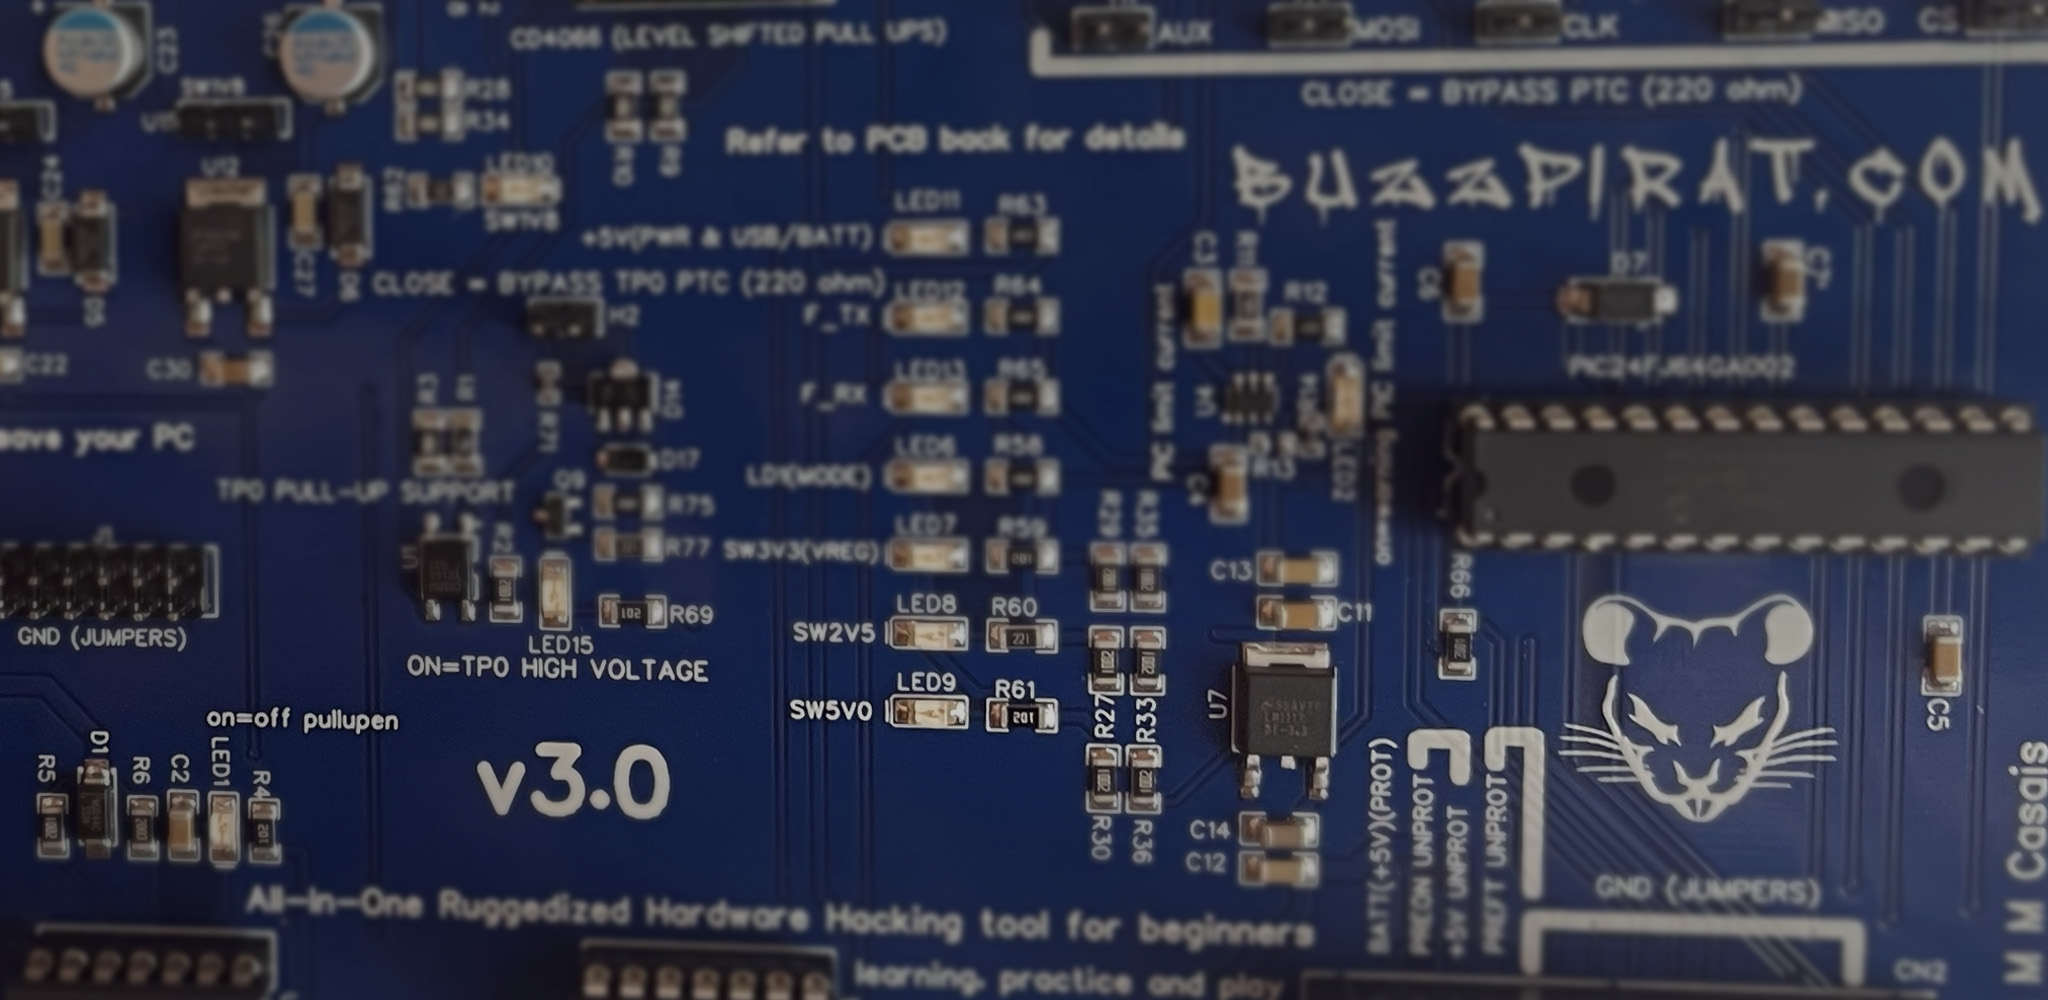
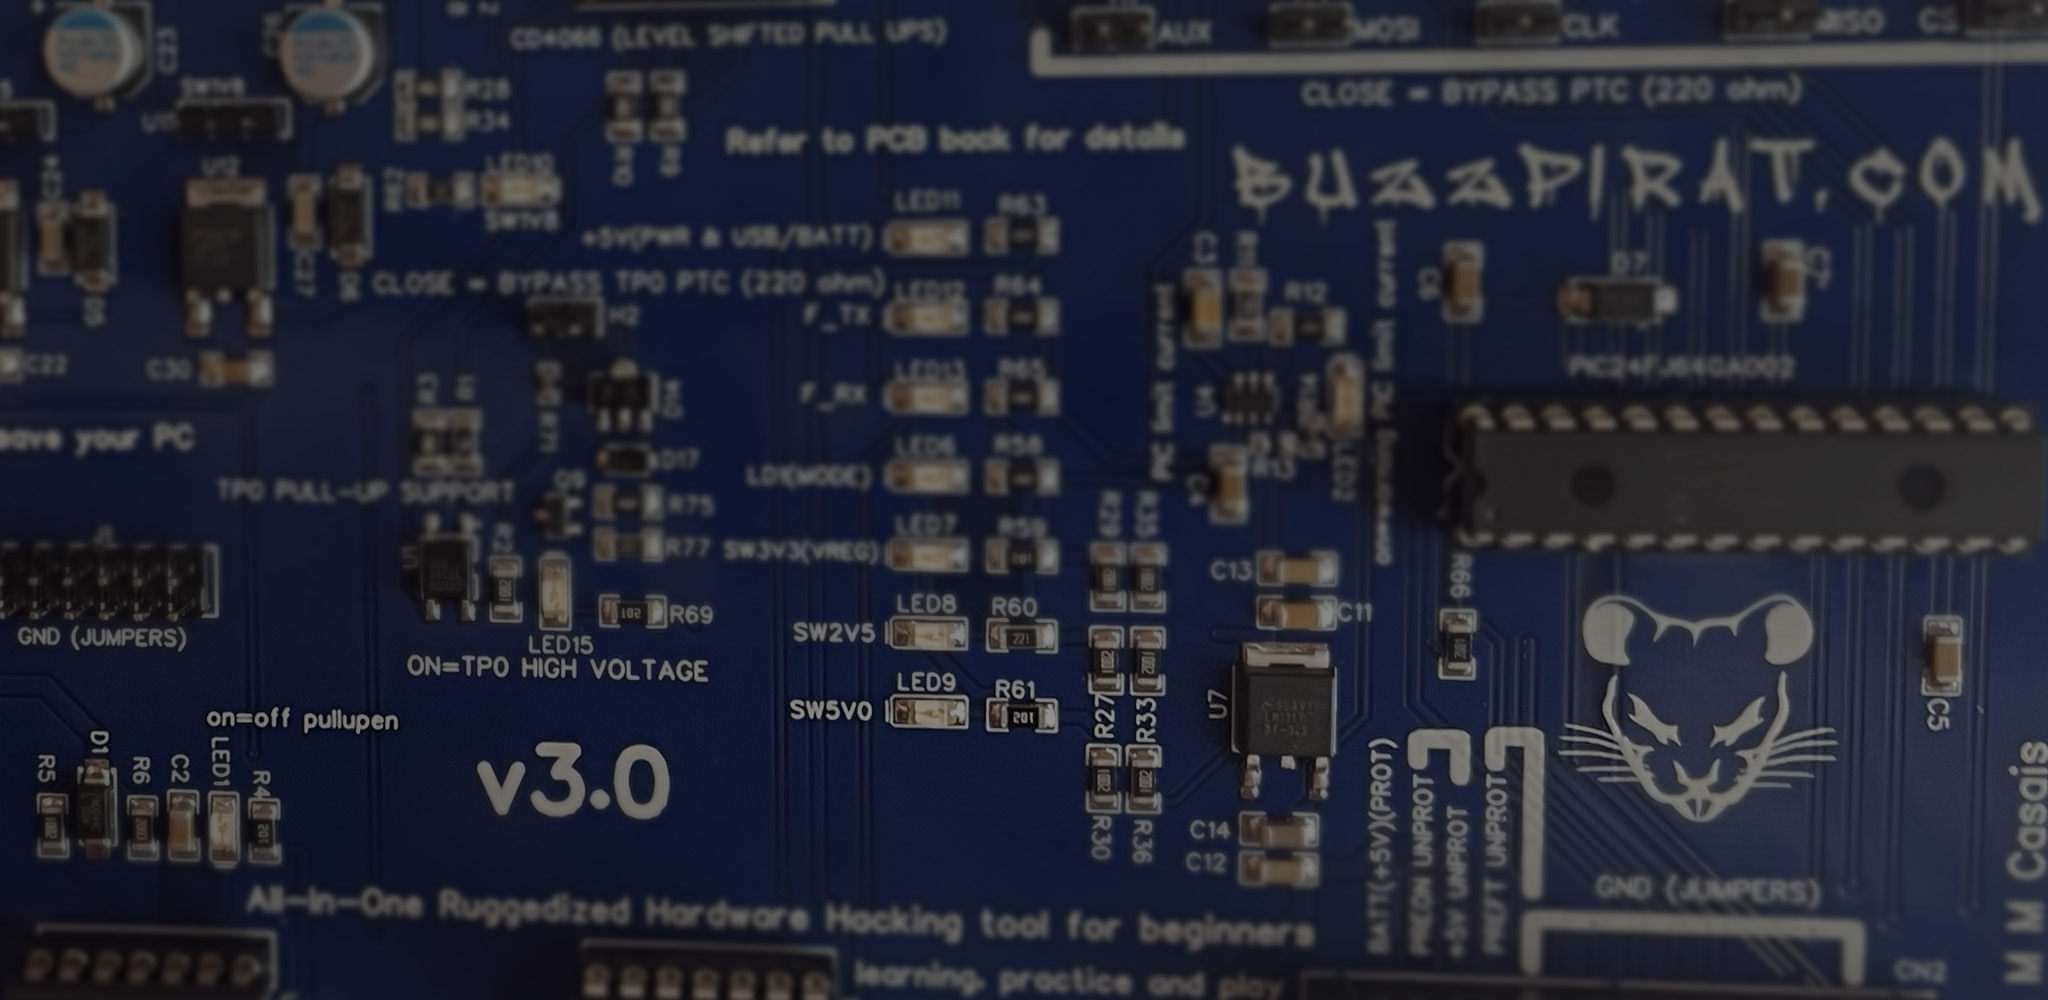
commit

diff --git a/docs/index.html b/docs/index.html
@@ -97,15 +97,15 @@
       <main role="main" class="td-main">
         
 
-<link rel="preload" as="image" href="/featured-background_hu54cc8bf63a236c51dada06c0445c0218_319396_960x540_fill_q75_catmullrom_top.jpg" media="(max-width: 1200px)">
-<link rel="preload" as="image" href="/featured-background_hu54cc8bf63a236c51dada06c0445c0218_319396_1920x1080_fill_q75_catmullrom_top.jpg" media="(min-width: 1200px)">
+<link rel="preload" as="image" href="/featured-background_hua7f81be8fd9f9b0973ddf545916dd94c_271845_960x540_fill_q75_catmullrom_top.jpg" media="(max-width: 1200px)">
+<link rel="preload" as="image" href="/featured-background_hua7f81be8fd9f9b0973ddf545916dd94c_271845_1920x1080_fill_q75_catmullrom_top.jpg" media="(min-width: 1200px)">
 <style>
 #td-cover-block-0 {
-  background-image: url(/featured-background_hu54cc8bf63a236c51dada06c0445c0218_319396_960x540_fill_q75_catmullrom_top.jpg);
+  background-image: url(/featured-background_hua7f81be8fd9f9b0973ddf545916dd94c_271845_960x540_fill_q75_catmullrom_top.jpg);
 }
 @media only screen and (min-width: 1200px) {
   #td-cover-block-0 {
-    background-image: url(/featured-background_hu54cc8bf63a236c51dada06c0445c0218_319396_1920x1080_fill_q75_catmullrom_top.jpg);
+    background-image: url(/featured-background_hua7f81be8fd9f9b0973ddf545916dd94c_271845_1920x1080_fill_q75_catmullrom_top.jpg);
   }
 }
 </style>
